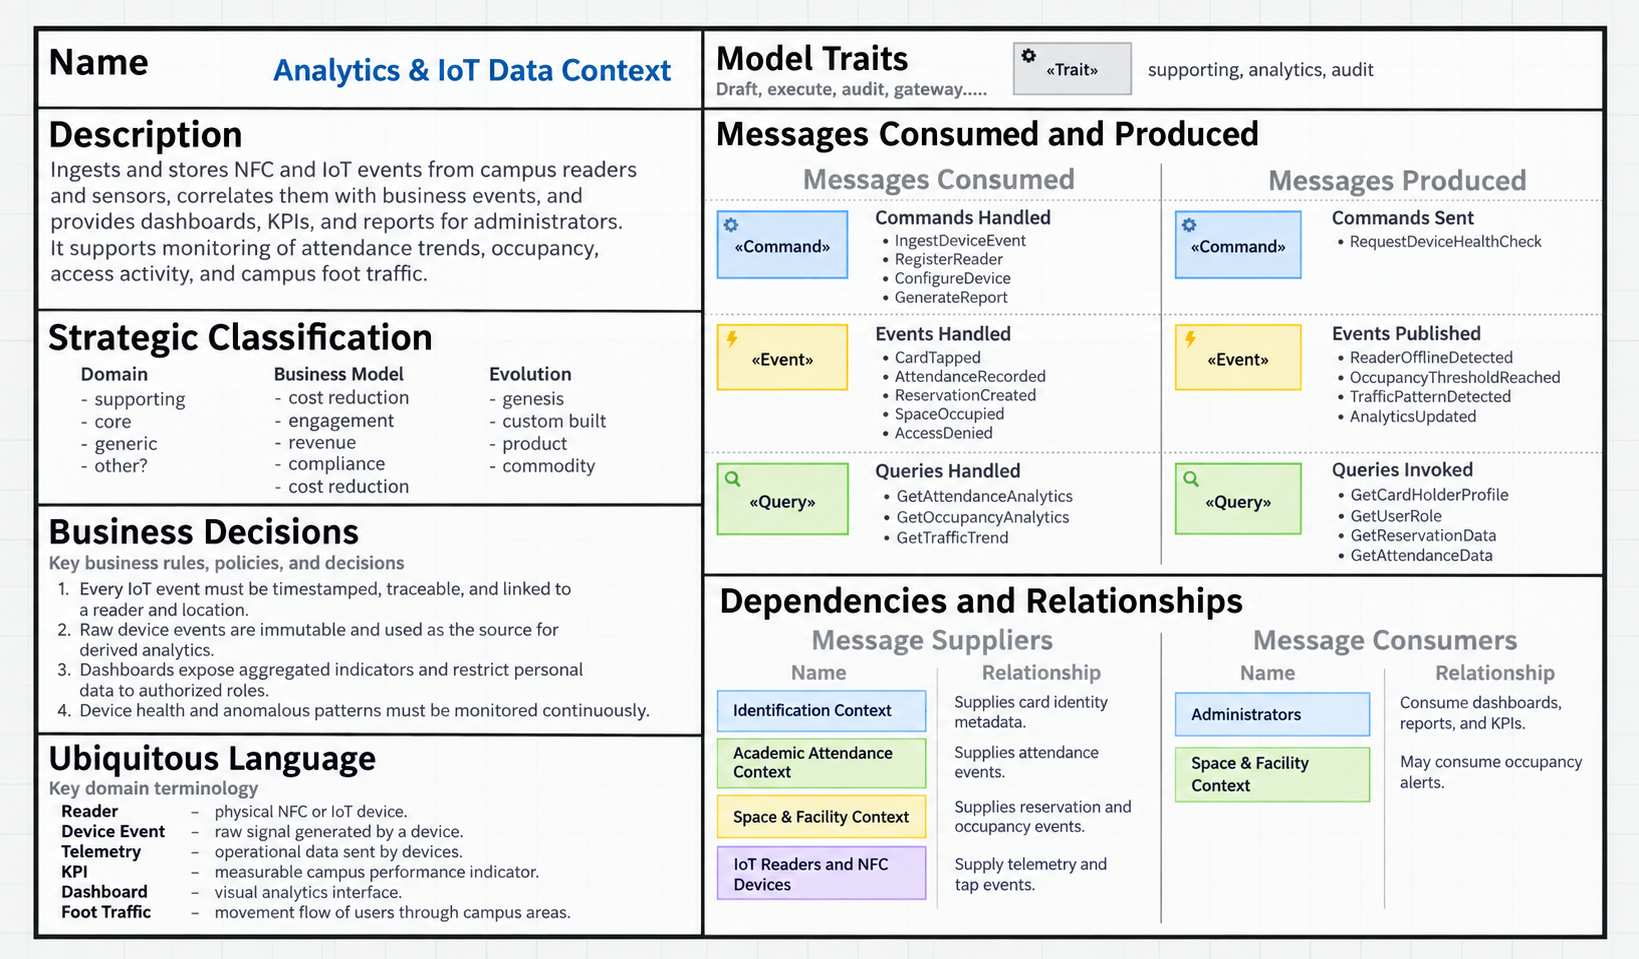
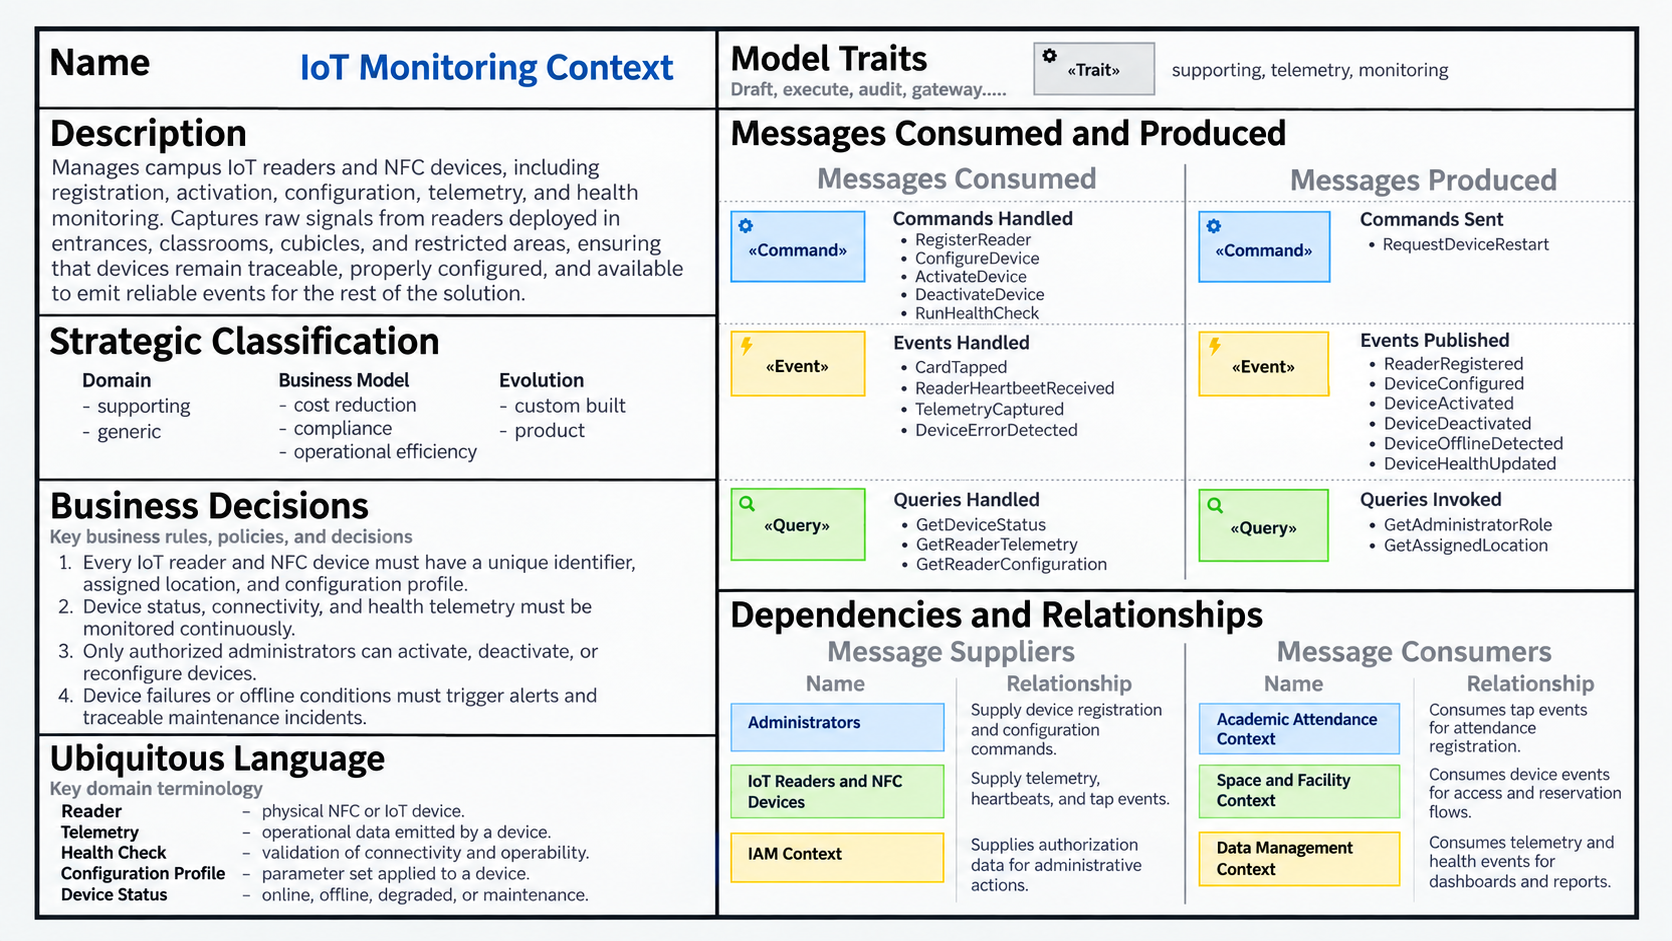
docs(): add new template

Changed region(s): [[0.0, 0.0308, 0.9957, 0.9862]]

diff --git a/README.md b/README.md
@@ -176,6 +176,73 @@ Integrantes
     - [4.3.3. Software Architecture Container Level Diagrams](#433-software-architecture-container-level-diagrams)
     - [4.3.4. Software Architecture Deployment Diagrams](#434-software-architecture-deployment-diagrams)
 
+- [Capítulo V: Tactical-Level Software Design](#capítulo-v-tactical-level-software-design)
+  - [5.1. Bounded Context: IAM Context](#51-bounded-context-iam-context)
+    - [5.1.1. Domain Layer](#511-domain-layer)
+    - [5.1.2. Interface Layer](#512-interface-layer)
+    - [5.1.3. Application Layer](#513-application-layer)
+    - [5.1.4. Infrastructure Layer](#514-infrastructure-layer)
+    - [5.1.6. Bounded Context Software Architecture Component Level Diagrams](#516-bounded-context-software-architecture-component-level-diagrams)
+    - [5.1.7. Bounded Context Software Architecture Code Level Diagrams](#517-bounded-context-software-architecture-code-level-diagrams)
+      - [5.1.7.1. Bounded Context Domain Layer Class Diagrams](#5171-bounded-context-domain-layer-class-diagrams)
+      - [5.1.7.2. Bounded Context Database Design Diagram](#5172-bounded-context-database-design-diagram)
+
+  - [5.2. Bounded Context: Academic Attendance Context](#52-bounded-context-academic-attendance-context)
+    - [5.2.1. Domain Layer](#521-domain-layer)
+    - [5.2.2. Interface Layer](#522-interface-layer)
+    - [5.2.3. Application Layer](#523-application-layer)
+    - [5.2.4. Infrastructure Layer](#524-infrastructure-layer)
+    - [5.2.6. Bounded Context Software Architecture Component Level Diagrams](#526-bounded-context-software-architecture-component-level-diagrams)
+    - [5.2.7. Bounded Context Software Architecture Code Level Diagrams](#527-bounded-context-software-architecture-code-level-diagrams)
+      - [5.2.7.1. Bounded Context Domain Layer Class Diagrams](#5271-bounded-context-domain-layer-class-diagrams)
+      - [5.2.7.2. Bounded Context Database Design Diagram](#5272-bounded-context-database-design-diagram)
+
+  - [5.3. Bounded Context: Space and Facility Context](#53-bounded-context-space-and-facility-context)
+    - [5.3.1. Domain Layer](#531-domain-layer)
+    - [5.3.2. Interface Layer](#532-interface-layer)
+    - [5.3.3. Application Layer](#533-application-layer)
+    - [5.3.4. Infrastructure Layer](#534-infrastructure-layer)
+    - [5.3.6. Bounded Context Software Architecture Component Level Diagrams](#536-bounded-context-software-architecture-component-level-diagrams)
+    - [5.3.7. Bounded Context Software Architecture Code Level Diagrams](#537-bounded-context-software-architecture-code-level-diagrams)
+      - [5.3.7.1. Bounded Context Domain Layer Class Diagrams](#5371-bounded-context-domain-layer-class-diagrams)
+      - [5.3.7.2. Bounded Context Database Design Diagram](#5372-bounded-context-database-design-diagram)
+
+  - [5.4. Bounded Context: IoT Monitoring Context](#54-bounded-context-iot-monitoring-context)
+    - [5.4.1. Domain Layer](#541-domain-layer)
+    - [5.4.2. Interface Layer](#542-interface-layer)
+    - [5.4.3. Application Layer](#543-application-layer)
+    - [5.4.4. Infrastructure Layer](#544-infrastructure-layer)
+    - [5.4.6. Bounded Context Software Architecture Component Level Diagrams](#546-bounded-context-software-architecture-component-level-diagrams)
+    - [5.4.7. Bounded Context Software Architecture Code Level Diagrams](#547-bounded-context-software-architecture-code-level-diagrams)
+      - [5.4.7.1. Bounded Context Domain Layer Class Diagrams](#5471-bounded-context-domain-layer-class-diagrams)
+      - [5.4.7.2. Bounded Context Database Design Diagram](#5472-bounded-context-database-design-diagram)
+
+  - [5.5. Bounded Context: Data Management Context](#55-bounded-context-data-management-context)
+    - [5.5.1. Domain Layer](#551-domain-layer)
+    - [5.5.2. Interface Layer](#552-interface-layer)
+    - [5.5.3. Application Layer](#553-application-layer)
+    - [5.5.4. Infrastructure Layer](#554-infrastructure-layer)
+    - [5.5.6. Bounded Context Software Architecture Component Level Diagrams](#556-bounded-context-software-architecture-component-level-diagrams)
+    - [5.5.7. Bounded Context Software Architecture Code Level Diagrams](#557-bounded-context-software-architecture-code-level-diagrams)
+      - [5.5.7.1. Bounded Context Domain Layer Class Diagrams](#5571-bounded-context-domain-layer-class-diagrams)
+      - [5.5.7.2. Bounded Context Database Design Diagram](#5572-bounded-context-database-design-diagram)
+
+- [Capítulo VI: Solution UX Design](#capítulo-vi-solution-ux-design)
+  - [6.1. Style Guidelines](#61-style-guidelines)
+    - [6.1.1. General Style Guidelines](#611-general-style-guidelines)
+    - [6.1.2. Web, Mobile & Devices Style Guidelines](#612-web-mobile--devices-style-guidelines)
+  - [6.2. Information Architecture](#62-information-architecture)
+    - [6.2.2. Labeling Systems](#622-labeling-systems)
+    - [6.2.3. Searching Systems](#623-searching-systems)
+    - [6.2.4. SEO Tags and Meta Tags](#624-seo-tags-and-meta-tags)
+    - [6.2.5. Navigation Systems](#625-navigation-systems)
+  - [6.3. Landing Page UI Design](#63-landing-page-ui-design)
+    - [6.3.1. Landing Page Wireframe](#631-landing-page-wireframe)
+    - [6.3.2. Landing Page Mock-up](#632-landing-page-mock-up)
+  - [6.4. Applications UX/UI Design](#64-applications-uxui-design)
+    - [6.4.1. Applications Wireframes](#641-applications-wireframes)
+    - [6.4.2. Applications Wireflow Diagrams](#642-applications-wireflow-diagrams)
+
 - [Conclusiones](#conclusiones)
   - [Conclusiones y recomendaciones](#conclusiones-y-recomendaciones)
 
@@ -1783,13 +1850,13 @@ Enlace al Miro: `https://miro.com/app/board/uXjVHklCdSw=/?share_link_id=47545670
   <img src="assets/images/bd-context-canvases/space-and-facility-bounded-context-canvases.png" alt="bounded-context-canvases" width="750">
 </p>
 
-+ **Bounded Context: Analytics & IoT Data Context:**
++ **Bounded Context: Iot Monitoring Context:**
 
 <p align="center">
   <img src="assets/images/bd-context-canvases/analytics-iot-bounded-context-canvases.png" alt="bounded-context-canvases" width="750">
 </p>
 
-+ **Bounded Context: Identification Context:**
++ **Bounded Context: Data Management Context:**
 
 <p align="center">
   <img src="assets/images/bd-context-canvases/identification-bounded-context-canvases.png" alt="bounded-context-canvases" width="750">
@@ -1798,42 +1865,44 @@ Enlace al Miro: `https://miro.com/app/board/uXjVHklCdSw=/?share_link_id=47545670
 
 ### 4.2.5. Context Mapping
 
-El proceso de Context Mapping permitió representar las relaciones estructurales y los mecanismos de integración existentes entre los bounded contexts definidos para TarjePAFI. Mientras que los Bounded Context Canvases permiten analizar individualmente las responsabilidades, reglas y dependencias de cada contexto, el Context Map proporciona una visión global de cómo estos colaboran para soportar los procesos de identificación mediante NFC, registro de asistencia, gestión de espacios y análisis de información dentro del Smart Campus.
+El proceso de Context Mapping permitió representar las relaciones estructurales y los mecanismos de integración existentes entre los bounded contexts definidos para TarjePAFI. Mientras que los Bounded Context Canvases permiten analizar individualmente las responsabilidades, reglas y dependencias de cada contexto, el Context Map proporciona una visión global de cómo estos colaboran para soportar los procesos de autenticación, monitoreo de dispositivos IoT, registro de asistencia, gestión de espacios y generación de información para la toma de decisiones dentro del Smart Campus.
 
 Para su elaboración, el equipo revisó las responsabilidades definidas previamente para cada bounded context y planteó preguntas de exploración propias de Domain-Driven Design, entre ellas:
 
-+ ¿Qué ocurriría si la validación de las tarjetas NFC fuera responsabilidad de IAM?
-+ ¿Sería conveniente unificar Academic Attendance Context y Space & Facility Context debido a que ambos utilizan la identificación mediante tarjetas?
-+ ¿Qué información debería ser proporcionada por Identification Context a los demás bounded contexts?
-+ ¿Es necesario compartir un modelo de usuario entre todos los contextos o solamente intercambiar identificadores y eventos?
-+ ¿Analytics & IoT Data Context debería almacenar las reglas de negocio de asistencia y reservas o únicamente procesar los eventos producidos por dichos contextos?
-+ ¿Sería conveniente dividir Analytics & IoT Data Context en un contexto de adquisición IoT y otro exclusivamente orientado a analítica?
++ ¿Qué responsabilidades relacionadas con autenticación y autorización deben permanecer dentro de IAM Context?
++ ¿Debe IoT Monitoring Context limitarse al monitoreo de dispositivos o también participar en la interpretación de las lecturas NFC?
++ ¿Cómo deben Academic Attendance Context y Space and Facility Context recibir los eventos generados por los lectores sin depender directamente del hardware?
++ ¿Es necesario compartir un mismo modelo de usuario entre los bounded contexts o únicamente intercambiar identificadores, roles y eventos?
++ ¿Data Management Context debe contener reglas de negocio de asistencia y reservas o únicamente almacenar, consolidar y analizar la información generada por los demás contextos?
++ ¿Cómo se debe aislar el dominio de TarjePAFI de los protocolos y formatos específicos utilizados por los lectores NFC e IoT?
 
-A partir de este análisis se determinó mantener los cinco bounded contexts definidos. Se descartó integrar la administración de tarjetas dentro de IAM, debido a que IAM se encarga de la autenticación y autorización de los usuarios dentro de las aplicaciones, mientras que Identification Context administra el ciclo de vida y validación de las credenciales físicas NFC. Asimismo, Academic Attendance Context y Space & Facility Context permanecen separados debido a que poseen reglas de negocio diferentes: el primero trabaja con sesiones académicas, horarios y registros de asistencia, mientras que el segundo administra reservas, capacidad y disponibilidad de espacios.
+A partir de este análisis se determinó mantener los cinco bounded contexts definidos. IAM Context se encarga exclusivamente de los procesos de autenticación, autorización, gestión de sesiones, roles y permisos dentro de las aplicaciones. Por otro lado, IoT Monitoring Context concentra las responsabilidades relacionadas con el registro, configuración, estado y monitoreo de los lectores NFC y dispositivos IoT distribuidos dentro del campus.
 
-También se evaluó dividir Analytics & IoT Data Context en dos contextos independientes: uno orientado a la adquisición de información IoT y otro dedicado exclusivamente a analítica. Para el alcance actual de TarjePAFI se decidió mantenerlos integrados, debido a que ambos procesos forman parte de una misma cadena de procesamiento de telemetría y generación de indicadores. Esta separación podría considerarse posteriormente si el volumen de dispositivos o información aumenta significativamente.
+Academic Attendance Context y Space and Facility Context permanecen separados debido a que poseen reglas de negocio distintas. Academic Attendance Context trabaja con sesiones académicas, horarios, matrículas y registros de asistencia, mientras que Space and Facility Context administra reservas, disponibilidad, capacidad, accesos y ocupación de los espacios universitarios.
+
+Finalmente, Data Management Context se encarga de almacenar, ordenar, consolidar y resumir la información producida por los demás contextos, permitiendo generar reportes, dashboards, indicadores e información histórica para los administradores. De esta manera, las reglas de negocio permanecen dentro de sus respectivos bounded contexts, mientras que Data Management se concentra en la explotación y presentación de la información.
 
 A partir de estas decisiones se identificaron los siguientes patrones de relación entre contextos:
 
-+ Open Host Service (OHS) en IAM, que expone servicios estandarizados de autenticación y autorización consumidos por los demás bounded contexts. De esta manera, Academic Attendance, Space & Facility, Analytics & IoT Data e Identification pueden validar sesiones, roles y permisos sin implementar mecanismos propios de autenticación.
++ Open Host Service (OHS) en IAM Context, que expone servicios estandarizados de autenticación y autorización consumidos por los demás bounded contexts. De esta manera, Academic Attendance Context, Space and Facility Context, IoT Monitoring Context y Data Management Context pueden validar sesiones, roles y permisos sin implementar mecanismos propios de autenticación.
 
-+ Conformist en la relación entre IAM e Identification Context. Identification utiliza la representación de usuarios, roles y permisos proporcionada por IAM para determinar qué funciones puede realizar el propietario de una tarjeta, evitando mantener un segundo modelo independiente de usuarios.
++ Conformist en la relación entre IAM Context e IoT Monitoring Context. IoT Monitoring utiliza los roles y permisos proporcionados por IAM para determinar qué usuarios administrativos pueden registrar, activar, desactivar o modificar la configuración de los dispositivos IoT.
 
-+ Customer/Supplier entre Identification Context y Academic Attendance Context, donde Identification actúa como supplier proporcionando la identidad validada asociada a una tarjeta NFC. Academic Attendance utiliza dicha información para determinar quién está intentando registrar asistencia antes de ejecutar sus propias reglas relacionadas con horario, matrícula y sesión académica.
++ Customer/Supplier entre IoT Monitoring Context y Academic Attendance Context. IoT Monitoring actúa como supplier proporcionando eventos generados por las lecturas NFC, como CardTapEvent o ReaderEvent. Academic Attendance utiliza estos eventos para identificar una interacción física y posteriormente aplicar sus propias reglas relacionadas con matrícula, horario y sesión académica.
 
-+ Customer/Supplier entre Identification Context y Space & Facility Context. Identification proporciona la identidad y estado de la tarjeta, mientras que Space & Facility utiliza estos datos para determinar si el usuario puede realizar una reserva, acceder a un ambiente o registrar la ocupación de un espacio.
++ Customer/Supplier entre IoT Monitoring Context y Space and Facility Context. IoT Monitoring proporciona los eventos generados por los lectores instalados en accesos, cubículos y otros ambientes, mientras que Space and Facility utiliza esta información para ejecutar sus reglas relacionadas con reservas, accesos y ocupación de espacios.
 
-+ Event-Driven Consistency entre Academic Attendance Context y Analytics & IoT Data Context. Cuando se producen eventos como AttendanceRecorded, AttendanceRejected o LateAttendanceDetected, estos pueden ser consumidos de manera asíncrona por Analytics & IoT Data para actualizar indicadores de asistencia sin acoplar directamente ambos modelos de dominio.
++ Event-Driven Consistency entre Academic Attendance Context y Data Management Context. Cuando se generan eventos como AttendanceRecorded o AttendanceRejected, estos son consumidos de manera asíncrona por Data Management para actualizar información histórica, estadísticas y reportes de asistencia sin acoplar directamente ambos modelos de dominio.
 
-+ Event-Driven Consistency entre Space & Facility Context y Analytics & IoT Data Context, mediante eventos como ReservationCreated, SpaceOccupied o SpaceReleased. Esto permite actualizar métricas de utilización y ocupación de espacios sin que el contexto de reservas tenga conocimiento de la lógica interna del módulo analítico.
++ Event-Driven Consistency entre Space and Facility Context y Data Management Context, mediante eventos como ReservationCreated, SpaceOccupied o SpaceReleased. Estos eventos permiten actualizar métricas de utilización, disponibilidad y ocupación de espacios sin que Space and Facility tenga conocimiento de la lógica interna utilizada para generar los reportes.
 
-+ Event-Driven Consistency entre Identification Context y Analytics & IoT Data Context, donde eventos como CardValidated y CardRejected pueden utilizarse para analizar flujos de usuarios, accesos y frecuencia de interacción de las tarjetas con los lectores distribuidos en el campus.
++ Event-Driven Consistency entre IoT Monitoring Context y Data Management Context. Eventos como TelemetryCaptured, DeviceHealthUpdated o DeviceOfflineDetected son utilizados para mantener información histórica sobre el funcionamiento de los lectores y generar indicadores relacionados con la disponibilidad y estado de la infraestructura IoT.
 
-+ Anti-Corruption Layer (ACL) en el límite entre los dispositivos físicos NFC/IoT y los bounded contexts de TarjePAFI. Los lectores generan identificadores, telemetría y eventos en formatos propios del dispositivo, por lo que una capa de adaptación transforma esta información antes de ingresarla al modelo de dominio de Identification o Analytics & IoT Data. De esta forma, cambios en el protocolo o fabricante del dispositivo no afectan directamente las reglas del negocio.
++ Anti-Corruption Layer (ACL) en el límite entre los dispositivos físicos NFC/IoT y IoT Monitoring Context. Los lectores pueden utilizar protocolos, identificadores y formatos específicos del fabricante, por lo que una capa de adaptación transforma dichos datos antes de incorporarlos al modelo de dominio de TarjePAFI. De esta manera, cambios en los dispositivos o protocolos de comunicación no afectan directamente las reglas del negocio.
 
-El patrón Shared Kernel también fue considerado para compartir elementos como User, Card, Space o sus identificadores entre los diferentes bounded contexts. Sin embargo, se decidió no utilizarlo, ya que compartir directamente modelos de dominio incrementaría el acoplamiento. En su lugar, cada contexto mantiene su propio modelo y comparte únicamente identificadores, contratos y eventos necesarios para la integración.
+El patrón Shared Kernel también fue considerado para compartir elementos como User, Reader, Space o sus identificadores entre los diferentes bounded contexts. Sin embargo, se decidió no utilizarlo, ya que compartir directamente modelos de dominio incrementaría el acoplamiento entre los contextos. En su lugar, cada bounded context mantiene su propio modelo y comparte únicamente identificadores, contratos, consultas y eventos necesarios para la integración.
 
-El Context Map resultante posiciona a Identification Context como el punto central para las interacciones realizadas mediante las credenciales NFC, proporcionando identidad validada a Academic Attendance y Space & Facility. IAM actúa como un servicio transversal encargado de autenticación y autorización, mientras que Academic Attendance Context y Space & Facility Context concentran las principales reglas de negocio relacionadas con asistencia y gestión de espacios. Finalmente, Analytics & IoT Data Context funciona como un contexto de soporte que consume los eventos generados por los demás contextos y por la infraestructura IoT para transformarlos en indicadores, reportes y dashboards orientados a la toma de decisiones de los administradores.
+El Context Map resultante posiciona a IoT Monitoring Context como el punto de integración entre los dispositivos físicos NFC/IoT y los procesos del dominio que necesitan utilizar sus lecturas. IAM Context actúa como un servicio transversal encargado de autenticación y autorización, mientras que Academic Attendance Context y Space and Facility Context concentran las principales reglas de negocio relacionadas con asistencia y gestión de espacios. Finalmente, Data Management Context funciona como un contexto de soporte que consume los eventos generados por los demás bounded contexts para transformarlos en información histórica, indicadores, reportes y dashboards orientados a la toma de decisiones de los administradores.
 
 <p align="center">
   <img src="assets/context_mapping.png" alt="context-mapping" width="750">
@@ -1888,6 +1957,137 @@ Este diagrama muestra cómo TarjePAFI se despliega mediante diferentes component
 <p align="center">
   <img src="assets/contextdia.jpeg" alt="System-Landscape" width="750">
 </p>
+
+
+# Capítulo V: Tactical-Level Software Design
+
+## 5.1. Bounded Context: IAM Context
+
+### 5.1.1. Domain Layer
+
+### 5.1.2. Interface Layer
+
+### 5.1.3. Application Layer
+
+### 5.1.4. Infrastructure Layer
+
+### 5.1.6. Bounded Context Software Architecture Component Level Diagrams
+
+### 5.1.7. Bounded Context Software Architecture Code Level Diagrams
+
+#### 5.1.7.1. Bounded Context Domain Layer Class Diagrams
+
+#### 5.1.7.2. Bounded Context Database Design Diagram
+
+
+## 5.2. Bounded Context: Academic Attendance Context
+
+### 5.2.1. Domain Layer
+
+### 5.2.2. Interface Layer
+
+### 5.2.3. Application Layer
+
+### 5.2.4. Infrastructure Layer
+
+### 5.2.6. Bounded Context Software Architecture Component Level Diagrams
+
+### 5.2.7. Bounded Context Software Architecture Code Level Diagrams
+
+#### 5.2.7.1. Bounded Context Domain Layer Class Diagrams
+
+#### 5.2.7.2. Bounded Context Database Design Diagram
+
+
+## 5.3. Bounded Context: Space and Facility Context
+
+### 5.3.1. Domain Layer
+
+### 5.3.2. Interface Layer
+
+### 5.3.3. Application Layer
+
+### 5.3.4. Infrastructure Layer
+
+### 5.3.6. Bounded Context Software Architecture Component Level Diagrams
+
+### 5.3.7. Bounded Context Software Architecture Code Level Diagrams
+
+#### 5.3.7.1. Bounded Context Domain Layer Class Diagrams
+
+#### 5.3.7.2. Bounded Context Database Design Diagram
+
+
+## 5.4. Bounded Context: IoT Monitoring Context
+
+### 5.4.1. Domain Layer
+
+### 5.4.2. Interface Layer
+
+### 5.4.3. Application Layer
+
+### 5.4.4. Infrastructure Layer
+
+### 5.4.6. Bounded Context Software Architecture Component Level Diagrams
+
+### 5.4.7. Bounded Context Software Architecture Code Level Diagrams
+
+#### 5.4.7.1. Bounded Context Domain Layer Class Diagrams
+
+#### 5.4.7.2. Bounded Context Database Design Diagram
+
+
+## 5.5. Bounded Context: Data Management Context
+
+### 5.5.1. Domain Layer
+
+### 5.5.2. Interface Layer
+
+### 5.5.3. Application Layer
+
+### 5.5.4. Infrastructure Layer
+
+### 5.5.6. Bounded Context Software Architecture Component Level Diagrams
+
+### 5.5.7. Bounded Context Software Architecture Code Level Diagrams
+
+#### 5.5.7.1. Bounded Context Domain Layer Class Diagrams
+
+#### 5.5.7.2. Bounded Context Database Design Diagram
+
+
+# Capítulo VI: Solution UX Design
+
+## 6.1. Style Guidelines
+
+### 6.1.1. General Style Guidelines
+
+### 6.1.2. Web, Mobile & Devices Style Guidelines
+
+
+## 6.2. Information Architecture
+
+### 6.2.2. Labeling Systems
+
+### 6.2.3. Searching Systems
+
+### 6.2.4. SEO Tags and Meta Tags
+
+### 6.2.5. Navigation Systems
+
+
+## 6.3. Landing Page UI Design
+
+### 6.3.1. Landing Page Wireframe
+
+### 6.3.2. Landing Page Mock-up
+
+
+## 6.4. Applications UX/UI Design
+
+### 6.4.1. Applications Wireframes
+
+### 6.4.2. Applications Wireflow Diagrams
 
 # Conclusiones
 
